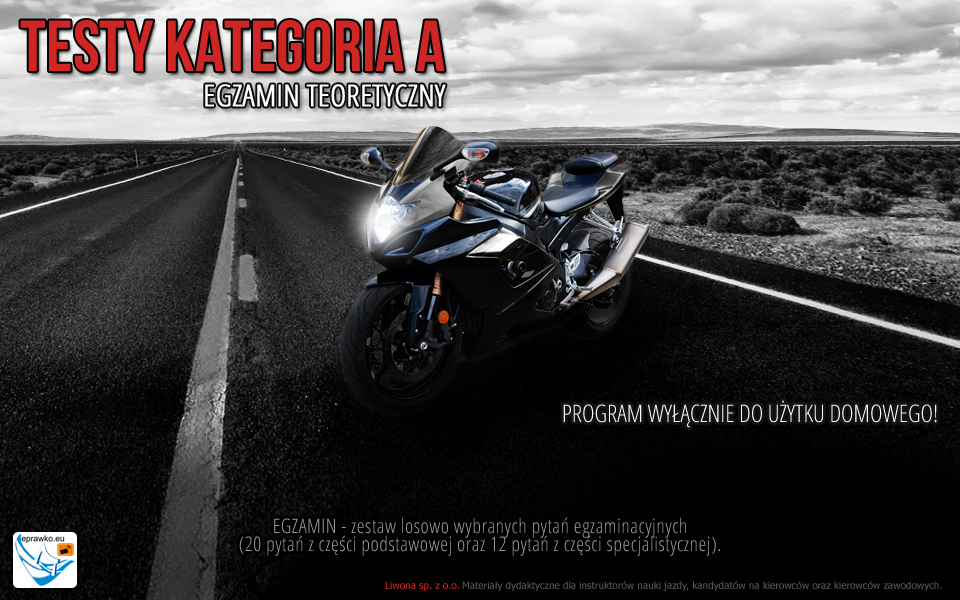
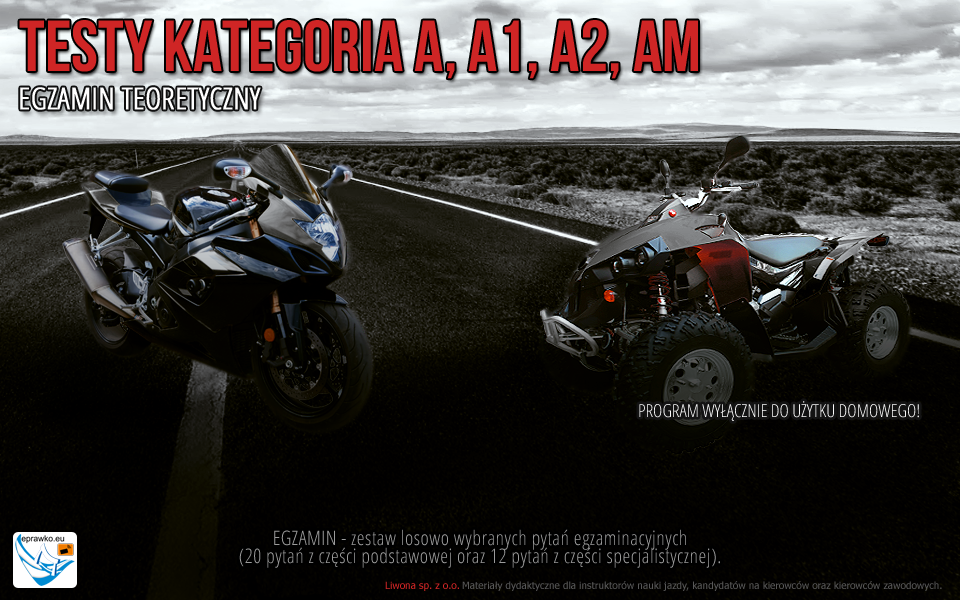
Poprawki

diff --git a/src/main/java/ui/a_am_chooser/view/AAmPanel.java b/src/main/java/ui/a_am_chooser/view/AAmPanel.java
@@ -1,13 +1,19 @@
 package ui.a_am_chooser.view;
 
+import util.Const;
+import util.ImageUtils;
+
 import javax.swing.*;
+import java.awt.*;
 
 /**
  * Author: Daniel
  */
 public class AAmPanel extends JPanel {
-    private JButton aCategoryBtn;
-    private JButton aAmCategoryBtn;
+    private JLabel aCategoryBtn;
+    private JLabel AmCategoryBtn;
+    private JLabel chooseCategoryLbl;
+    private JLabel closeBtn;
 
     public AAmPanel() {
         setUpPanel();
@@ -15,31 +21,64 @@ public class AAmPanel extends JPanel {
     }
 
     private void setUpPanel() {
+        setBackground(Const.Colors.BACKGROUND_COLOR);
         setLayout(null);
     }
 
     private void initializeComponents() {
-        JLabel info = new JLabel("Wybierz kategorię");
-        info.setBounds(10, 10, 200, 30);
-        aCategoryBtn = createBtn("A", 10, 60, 100, 40);
-        aAmCategoryBtn= createBtn("AM", 120, 60, 100, 40);
+        aCategoryBtn = createBtn("a.png", 50, 440);
+        AmCategoryBtn = createBtn("am.png", 650, 440);
+        chooseCategoryLbl = getChooseCategoryLbl();
+        closeBtn = createCloseBtn();
 
-        add(info);
         add(aCategoryBtn);
-        add(aAmCategoryBtn);
+        add(AmCategoryBtn);
+        add(chooseCategoryLbl);
+        add(closeBtn);
     }
 
-    private JButton createBtn(String btnLabel, int x, int y, int width, int height) {
-        JButton jButton = new JButton(btnLabel);
-        jButton.setBounds(x, y, width, height);
-        return jButton;
+    private JLabel createCloseBtn() {
+        final ImageIcon imgUn = ImageUtils.getProgramImage("close_btn.png");
+        final JLabel button = new JLabel(imgUn);
+        button.setCursor(Cursor.getPredefinedCursor(Cursor.HAND_CURSOR));
+        button.setBounds(915, 5, 40, 40);
+        return button;
     }
 
-    public JButton getaCategoryBtn() {
+    private JLabel getChooseCategoryLbl() {
+        final ImageIcon imgUn = ImageUtils.getProgramImage("wybierz.png");
+
+        final JLabel button = new JLabel(imgUn);
+        button.setBounds(350, 440, 280, 85);
+        return button;
+    }
+
+    private JLabel createBtn(String imgUnPath, int x, int y) {
+        final ImageIcon imgUn = ImageUtils.getProgramImage(imgUnPath);
+
+        final JLabel button = new JLabel(imgUn);
+        button.setCursor(Cursor.getPredefinedCursor(Cursor.HAND_CURSOR));
+        button.setBounds(x, y, 280, 85);
+        return button;
+    }
+
+    @Override
+    protected void paintComponent(Graphics g) {
+        super.paintComponent(g);
+
+        ImageIcon programImage = ImageUtils.getProgramImage("bg.png");
+        g.drawImage(programImage.getImage(), 0, 0, null);
+    }
+
+    public JLabel getaCategoryBtn() {
         return aCategoryBtn;
     }
 
-    public JButton getaAmCategoryBtn() {
-        return aAmCategoryBtn;
+    public JLabel getAmCategoryBtn() {
+        return AmCategoryBtn;
+    }
+
+    public JLabel getCloseBtn() {
+        return closeBtn;
     }
 }

diff --git a/src/main/java/ui/a_am_chooser/view/AAmFrame.java b/src/main/java/ui/a_am_chooser/view/AAmFrame.java
@@ -2,29 +2,58 @@ package ui.a_am_chooser.view;
 
 import database.dao.TextsDao;
 import ui.a_am_chooser.logic.AAmController;
+import util.ApplicationUtils;
 
 import javax.swing.*;
 import java.awt.*;
+import java.awt.event.MouseAdapter;
+import java.awt.event.MouseEvent;
+import java.awt.event.MouseMotionAdapter;
 
 /**
  * Author: Daniel
  */
 public class AAmFrame extends JDialog {
 
-    public static final int WIDTH = 250;
-    public static final int HEIGHT = 150;
+    public static final int HEIGHT = 600;
+    public static final int WIDTH = 960;
 
     public AAmFrame(JDialog nextScreen) {
         setUpDialog();
         initializeComponents(nextScreen);
-        setLocationRelativeTo(null);
     }
 
     private void setUpDialog() {
-        setSize(new Dimension(WIDTH, HEIGHT));
+        setSize(WIDTH, HEIGHT);
         setTitle(TextsDao.getText("view.CategoryChooser.title"));
         setModal(true);
         setResizable(false);
+        setIgnoreRepaint(false);
+        setUndecorated(true);
+        ApplicationUtils.setApplicationIcon(this);
+        setLocationRelativeTo(null);
+        setWindowRemoveble();
+    }
+
+    private void setWindowRemoveble() {
+        final Point point = new Point();
+        addMouseListener(new MouseAdapter() {
+            public void mousePressed(MouseEvent e) {
+                if (!e.isMetaDown()) {
+                    point.x = e.getX();
+                    point.y = e.getY();
+                }
+            }
+        });
+        addMouseMotionListener(new MouseMotionAdapter() {
+            public void mouseDragged(MouseEvent e) {
+                if (!e.isMetaDown()) {
+                    Point p = getLocation();
+                    setLocation(p.x + e.getX() - point.x,
+                            p.y + e.getY() - point.y);
+                }
+            }
+        });
     }
 
     private void initializeComponents(JDialog nextScreen) {
@@ -34,7 +63,8 @@ public class AAmFrame extends JDialog {
         add(aAmPanel);
 
         controller.setaCategoryBtn(aAmPanel.getaCategoryBtn());
-        controller.setaAmCategoryBtn(aAmPanel.getaAmCategoryBtn());
+        controller.setaAmCategoryBtn(aAmPanel.getAmCategoryBtn());
+        controller.setCloseBtn(aAmPanel.getCloseBtn());
 
         addWindowListener(controller.getWindowListener());
     }

diff --git a/src/main/java/ui/a_am_chooser/logic/AAmController.java b/src/main/java/ui/a_am_chooser/logic/AAmController.java
@@ -44,21 +44,38 @@ public class AAmController {
         };
     }
 
-    class ACategorybtnListener implements ActionListener {
+    class ACategorybtnListener extends MouseAdapter {
         @Override
-        public void actionPerformed(ActionEvent e) {
+        public void mouseClicked(MouseEvent e) {
             choosenCategory.setChoosenCategory(ChoosenCategory.A);
             LearningQuestionProvider learningProvider = LearningQuestionProvider.getInstance(true);
             showNextScreen();
         }
     }
 
-    class AAMCategorybtnListener implements ActionListener {
+    class AAMCategorybtnListener extends MouseAdapter {
         @Override
-        public void actionPerformed(ActionEvent e) {
+        public void mouseClicked(MouseEvent e) {
             choosenCategory.setChoosenCategory(ChoosenCategory.AM);
             LearningQuestionProvider learningProvider = LearningQuestionProvider.getInstance(true);
             showNextScreen();
+        }
+    }
+
+    class CloseBtnListener extends MouseAdapter {
+        @Override
+        public void mouseClicked(MouseEvent e) {
+            currentScreen.dispose();
+
+            EventQueue.invokeLater(new Runnable() {
+                @Override
+                public void run() {
+                    MainMenuFrame frame = new MainMenuFrame();
+                    frame.setDefaultCloseOperation(WindowConstants.EXIT_ON_CLOSE);
+                    frame.setVisible(true);
+                }
+            });
+
         }
     }
 
@@ -68,11 +85,15 @@ public class AAmController {
         nextScreen.setVisible(true);
     }
 
-    public void setaCategoryBtn(JButton aCategoryBtn) {
-        aCategoryBtn.addActionListener(new ACategorybtnListener());
+    public void setaCategoryBtn(JLabel aCategoryBtn) {
+        aCategoryBtn.addMouseListener(new ACategorybtnListener());
     }
 
-    public void setaAmCategoryBtn(JButton aAmCategoryBtn) {
-        aAmCategoryBtn.addActionListener(new AAMCategorybtnListener());
+    public void setaAmCategoryBtn(JLabel aAmCategoryBtn) {
+        aAmCategoryBtn.addMouseListener(new AAMCategorybtnListener());
+    }
+
+    public void setCloseBtn(JLabel closeBtn) {
+        closeBtn.addMouseListener(new CloseBtnListener());
     }
 }

diff --git a/src/main/java/ui/main_menu/logic/MainMenuPresenter.java b/src/main/java/ui/main_menu/logic/MainMenuPresenter.java
@@ -11,8 +11,6 @@ import javax.swing.*;
 import java.awt.*;
 import java.awt.event.MouseAdapter;
 import java.awt.event.MouseEvent;
-import java.io.File;
-import java.io.IOException;
 
 /**
  * Author: dmichalski
@@ -41,14 +39,16 @@ public class MainMenuPresenter {
     class SignsBtnListener extends MouseAdapter {
         @Override
         public void mouseClicked(MouseEvent e) {
-            try {
-                File htmlFile = new File(TextsDao.getFilePath("signs.app"));
+           //TODO
+           /* try {
+                String s = File.separator;
+                File htmlFile = new File("data" + s + "znaki" + s + "index.html");
                 Desktop.getDesktop().browse(htmlFile.toURI());
             } catch (IOException e1) {
                 JOptionPane.showMessageDialog(
                         null,
                         "Wystąpił błąd przy otwieraniu modułu: " + e);
-            }
+            }*/
         }
     }
 

diff --git a/src/main/java/ui/main_menu/view/MainMenuPanel.java b/src/main/java/ui/main_menu/view/MainMenuPanel.java
@@ -29,6 +29,10 @@ public class MainMenuPanel extends JPanel {
     private void initializeComponents() {
         exerciseBtn = createBtn("bl_un.png", 50, 470);
         signsBtn = createBtn("signs_btn.png", 270, 470);
+
+        //TODO
+        signsBtn.setCursor(Cursor.getDefaultCursor());
+
         egxamBtn = createBtn("e_un.png", 490, 470);
         aboutApp = createBtn("op_un.png", 710, 470);
         closeBtn = createCloseBtn();

diff --git a/src/main/java/util/ApplicationUtils.java b/src/main/java/util/ApplicationUtils.java
@@ -123,7 +123,7 @@ public class ApplicationUtils {
 
         JOptionPane.showMessageDialog(
                 null,
-                "Brak płyty w napędzie. Włóż płytę z aplikacją Testy C i spróbuj ponownie uruchomić aplikację.",
+                "Brak płyty w napędzie. Włóż płytę z aplikacją Testy A i spróbuj ponownie uruchomić aplikację.",
                 "Błąd",
                 JOptionPane.ERROR_MESSAGE);
 

diff --git a/src/main/java/RunApplication.java b/src/main/java/RunApplication.java
@@ -14,7 +14,7 @@ public class RunApplication {
     public static void main(String[] args) {
         try {
             ApplicationUtils.setNimbusLookAndFeel();
-//            ApplicationUtils.checkCD();
+            ApplicationUtils.checkCD();
             startApp();
         } catch (Exception e) {
             logger.error(e);
